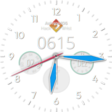
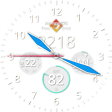
Change slogan to "Free your wrist"
This updates the previous slogan "Hack your wrist" to the new one, "Free
your wrist."

diff --git a/analog-aviator/usr/share/asteroid-launcher/watchfaces/analog-aviator.qml b/analog-aviator/usr/share/asteroid-launcher/watchfaces/analog-aviator.qml
@@ -59,7 +59,7 @@ Item {
             centerIn: parent
             verticalCenterOffset: -parent.height * 0.146
         }
-        text: "<b>AsteroidOS</b><br>Hack Your Wrist"
+        text: "<b>AsteroidOS</b><br>Free Your Wrist"
         state: currentColor
         states: State { name: "black";
             PropertyChanges { target: asteroidSlogan; color: "black" }

diff --git a/analog-scientific-v2/usr/share/asteroid-launcher/watchfaces/analog-scientific-v2.qml b/analog-scientific-v2/usr/share/asteroid-launcher/watchfaces/analog-scientific-v2.qml
@@ -122,7 +122,7 @@ Item {
             visible: !displayAmbient
             color: "white"
             horizontalAlignment: Text.AlignHCenter
-            text: "<b>AsteroidOS</b><br>Hack Your Wrist"
+            text: "<b>AsteroidOS</b><br>Free Your Wrist"
         }
         MouseArea {
             anchors.fill: parent

diff --git a/digital-thoreau-simplify/usr/share/asteroid-launcher/watchfaces/digital-thoreau-simplify.qml b/digital-thoreau-simplify/usr/share/asteroid-launcher/watchfaces/digital-thoreau-simplify.qml
@@ -55,7 +55,7 @@ Item {
                     centerIn: parent
                     verticalCenterOffset: -parent.height * 0.005
                 }
-                text: "<b>AsteroidOS</b><br>Hack Your Wrist"
+                text: "<b>AsteroidOS</b><br>Free Your Wrist"
             }
         }
         MouseArea {

diff --git a/resistance-is-futile/usr/share/asteroid-launcher/watchfaces/resistance-is-futile.qml b/resistance-is-futile/usr/share/asteroid-launcher/watchfaces/resistance-is-futile.qml
@@ -56,7 +56,7 @@ Item {
                     centerIn: parent
                     verticalCenterOffset: -parent.height * 0.005
                 }
-                text: "<b>AsteroidOS</b><br>Hack Your Wrist"
+                text: "<b>AsteroidOS</b><br>Free Your Wrist"
             }
         }
         MouseArea {

diff --git a/analog-neon-diver/usr/share/asteroid-launcher/watchfaces/analog-neon-diver.qml b/analog-neon-diver/usr/share/asteroid-launcher/watchfaces/analog-neon-diver.qml
@@ -145,7 +145,7 @@ Item {
                 centerIn: parent
                 verticalCenterOffset: -parent.height * 0.005
             }
-            text: "<b>AsteroidOS</b><br>Hack Your Wrist"
+            text: "<b>AsteroidOS</b><br>Free Your Wrist"
         }
     }
 

diff --git a/README.md b/README.md
@@ -36,14 +36,14 @@ You may [restart the session or reboot the watch](https://asteroidos.org/wiki/us
 | ![thumbnail](.thumbnails/analog-halloween-round.webp) | ![thumbnail](.thumbnails/analog-halloween.jpg) | [analog-halloween](analog-halloween/usr/share/asteroid-launcher/watchfaces/analog-halloween.qml) | [beroset](https://github.com/beroset) |
 | ![thumbnail](.thumbnails/analog-modern-steel-round.webp) | ![thumbnail](.thumbnails/analog-modern-steel.jpg) | [analog-modern-steel](analog-modern-steel/usr/share/asteroid-launcher/watchfaces/analog-modern-steel.qml) | [CosmosDev](https://github.com/CosmosDev) |
 | ![thumbnail](.thumbnails/analog-moega-sushimaster-round.webp) | ![thumbnail](.thumbnails/analog-moega-sushimaster.webp) | [analog-moega-sushimaster](analog-moega-sushimaster/usr/share/asteroid-launcher/watchfaces/analog-moega-sushimaster.qml) | [eLtMosen](https://github.com/eLtMosen) |
-| ![thumbnail](.thumbnails/analog-neon-diver-round.webp) | ![thumbnail](.thumbnails/analog-neon-diver.jpg) | [analog-neon-diver](analog-neon-diver/usr/share/asteroid-launcher/watchfaces/analog-neon-diver.qml) | [eLtMosen](https://github.com/eLtMosen) |
+| ![thumbnail](.thumbnails/analog-neon-diver-round.webp) | ![thumbnail](.thumbnails/analog-neon-diver.webp) | [analog-neon-diver](analog-neon-diver/usr/share/asteroid-launcher/watchfaces/analog-neon-diver.qml) | [eLtMosen](https://github.com/eLtMosen) |
 | ![thumbnail](.thumbnails/analog-nort-round.webp) | ![thumbnail](.thumbnails/analog-nort.jpg) | [analog-nort](analog-nort/usr/share/asteroid-launcher/watchfaces/analog-nort.qml) | [eLtMosen](https://github.com/eLtMosen) |
 | ![thumbnail](.thumbnails/analog-precision-round.webp) |![thumbnail](.thumbnails/analog-precision.jpg) | [analog-precision](analog-precision/usr/share/asteroid-launcher/watchfaces/analog-precision.qml) | [Mario Kicherer](mailto:dev@kicherer.org) |
 | ![thumbnail](.thumbnails/analog-railway-round.webp) |![thumbnail](.thumbnails/analog-railway.jpg) | [analog-railway](analog-railway/usr/share/asteroid-launcher/watchfaces/analog-railway.qml) | [eLtMosen](https://github.com/eLtMosen) |
 | ![thumbnail](.thumbnails/analog-red-handed-round.webp) | ![thumbnail](.thumbnails/analog-red-handed.jpg) | [analog-red-handed](analog-red-handed/usr/share/asteroid-launcher/watchfaces/analog-red-handed.qml) | [eLtMosen](https://github.com/eLtMosen) |
 | ![thumbnail](.thumbnails/analog-rings-round.webp) |![thumbnail](.thumbnails/analog-rings.jpg) | [analog-rings](analog-rings/usr/share/asteroid-launcher/watchfaces/analog-rings.qml) | [eLtMosen](https://github.com/eLtMosen) |
 | ![thumbnail](.thumbnails/analog-scientific-round.webp) |![thumbnail](.thumbnails/analog-scientific.jpg) | [analog-scientific](analog-scientific/usr/share/asteroid-launcher/watchfaces/analog-scientific.qml) | [eLtMosen](https://github.com/eLtMosen) |
-| ![thumbnail](.thumbnails/analog-scientific-v2-round.webp) |![thumbnail](.thumbnails/analog-scientific-v2.jpg) | [analog-scientific-v2](analog-scientific-v2/usr/share/asteroid-launcher/watchfaces/analog-scientific-v2.qml) | [eLtMosen](https://github.com/eLtMosen) |
+| ![thumbnail](.thumbnails/analog-scientific-v2-round.webp) |![thumbnail](.thumbnails/analog-scientific-v2.webp) | [analog-scientific-v2](analog-scientific-v2/usr/share/asteroid-launcher/watchfaces/analog-scientific-v2.qml) | [eLtMosen](https://github.com/eLtMosen) |
 | ![thumbnail](.thumbnails/analog-silly-walks-round.webp) | ![thumbnail](.thumbnails/analog-silly-walks.jpg) | [analog-silly-walks](analog-silly-walks/usr/share/asteroid-launcher/watchfaces/analog-silly-walks.qml) | [eLtMosen](https://github.com/eLtMosen) |
 | ![thumbnail](.thumbnails/analog-tactical-round.webp) |![thumbnail](.thumbnails/analog-tactical.jpg) | [analog-tactical](analog-tactical/usr/share/asteroid-launcher/watchfaces/analog-tactical.qml) | [eLtMosen](https://github.com/eLtMosen) |
 | ![thumbnail](.thumbnails/analog-weather-glow-round.webp) | ![thumbnail](.thumbnails/analog-weather-glow.webp) | [analog-weather-glow](analog-weather-glow/usr/share/asteroid-launcher/watchfaces/analog-weather-glow.qml) | [eLtMosen](https://github.com/eLtMosen) |
